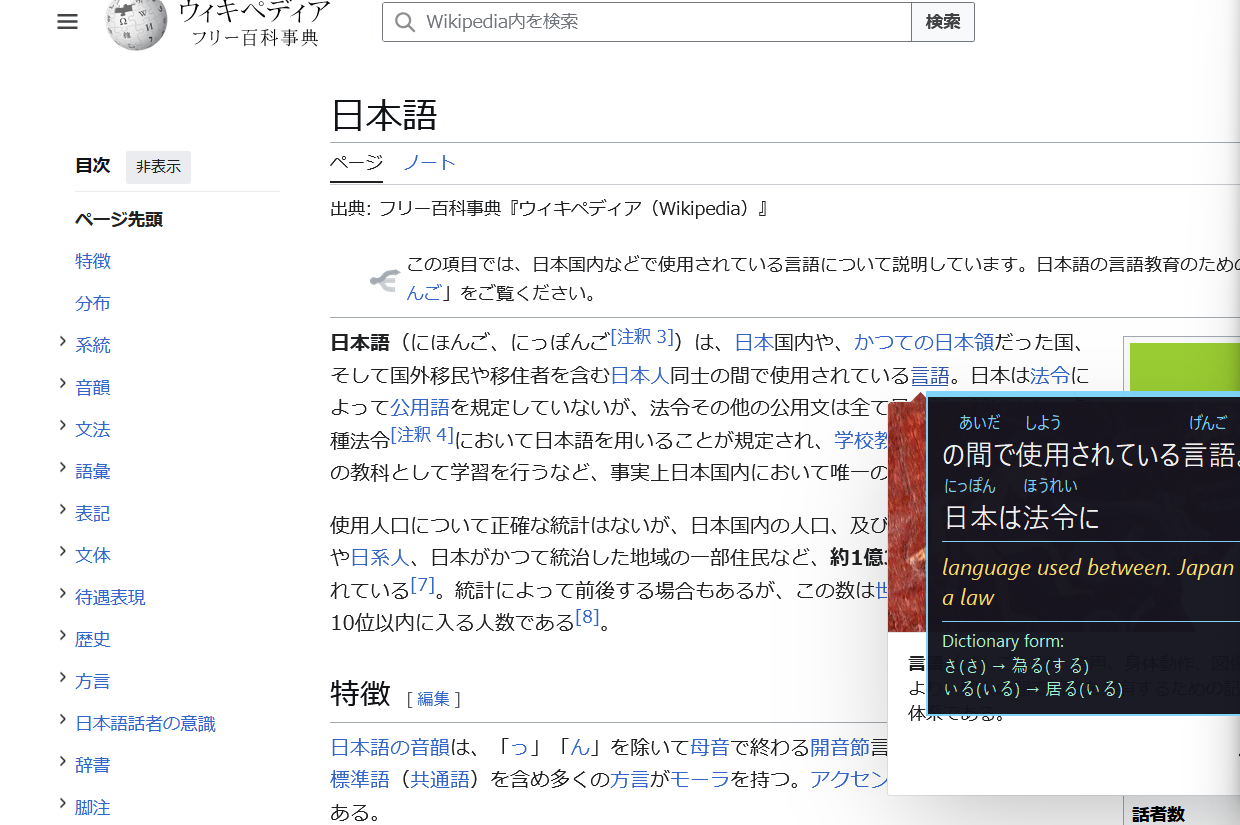
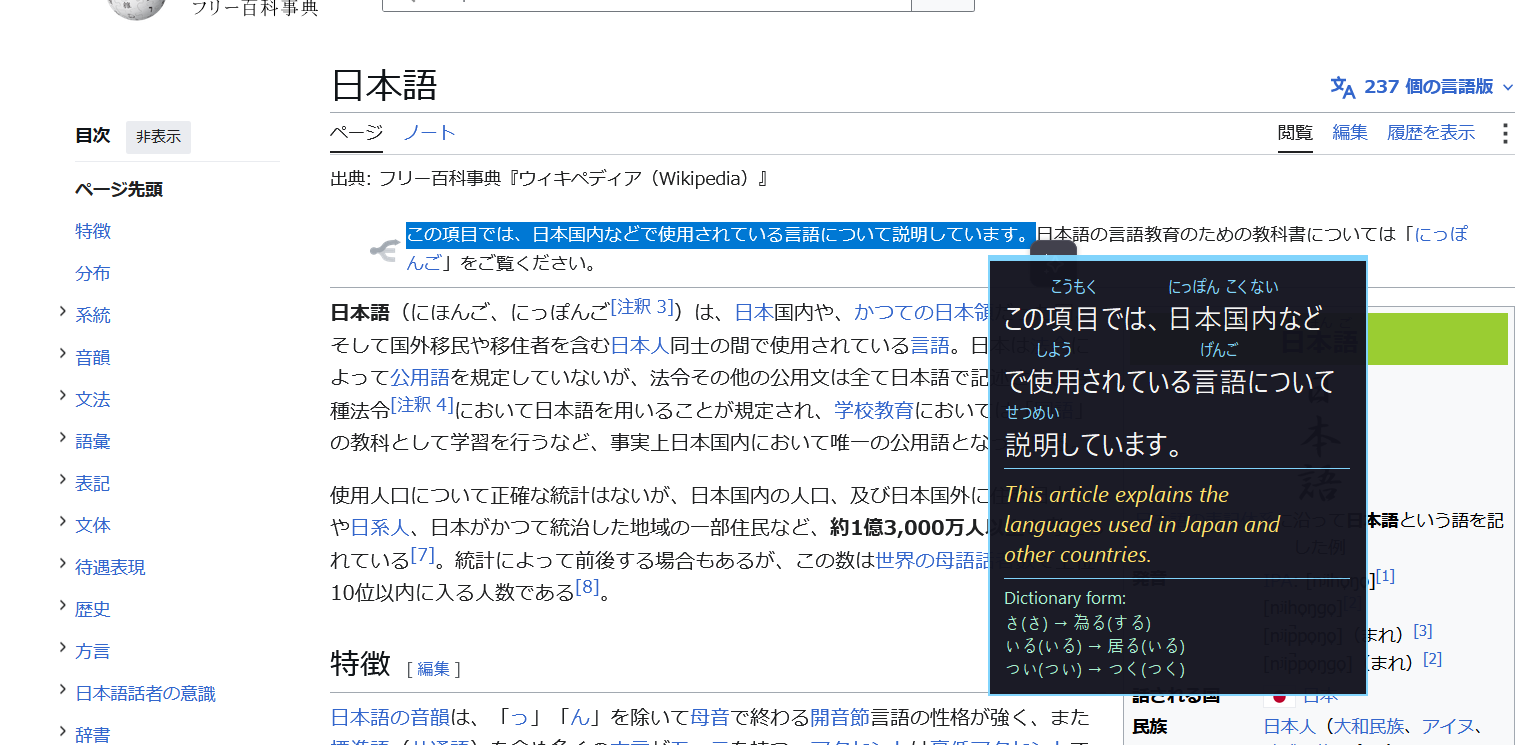
Improve README screenshot layout and fix the hover-popup screenshot
- Recapture hover-popup.png using a real text selection (the app's
  selection-priority path) instead of a hovered OCR spot -- the old
  one had a distracting article image bleeding in from the right and
  a cut-off popup. The new one shows a clean full-sentence selection,
  accurate furigana/translation, and the dictionary-form breakdown
  with nothing competing for attention.
- Reorganize the README's screenshots into a proper gallery: a
  full-width hero shot of the hover popup, then a 2x2 grid (Overview,
  Saved words, Study review, Settings) right up top instead of huge
  screenshots stacked one after another through the document.
  settings.png was captured earlier but never actually used anywhere
  in the README -- it's now part of the grid.
- Drop the now-redundant standalone study-review.png/saved-words.png
  placements further down the page.

diff --git a/README.md b/README.md
@@ -10,9 +10,19 @@ It combines cursor-anchored OCR, local JMdict word definitions, phrase translati
 furigana, dictionary-form breakdowns, pin/save hotkeys, SM-2 spaced repetition, and a
 light-mode desktop dashboard — no cloud account, API key, or subscription required.
 
-![Dashboard](docs/dashboard.png)
-
-![Pinned hover popup](docs/hover-popup.png)
+<p align="center">
+  <img src="docs/hover-popup.png" alt="Hover popup with furigana, translation, and dictionary form" width="100%">
+</p>
+<table>
+  <tr>
+    <td width="50%"><img src="docs/dashboard.png" alt="Overview dashboard"></td>
+    <td width="50%"><img src="docs/saved-words.png" alt="Saved words library"></td>
+  </tr>
+  <tr>
+    <td width="50%"><img src="docs/study-review.png" alt="Spaced-repetition study review"></td>
+    <td width="50%"><img src="docs/settings.png" alt="Settings page"></td>
+  </tr>
+</table>
 
 **Status:** actively developed, expect rough edges. Running from source
 (`python src/dashboard_app.py`) leaves a console window open in the background, since
@@ -207,8 +217,6 @@ which prevents accidental saves from fleeting hover results.
 
 ## Spaced-repetition study
 
-![Focused review mode](docs/study-review.png)
-
 Open **Saved Words** and choose **Review due cards**. New cards are due immediately;
 after revealing the answer, grade your recall with **Again**, **Hard**, **Good**, or
 **Easy** (keyboard shortcuts 1–4). The SM-2 scheduler stores each card's interval,
@@ -221,11 +229,9 @@ six-day review interval, while other saved cards enter the due queue immediately
 The Saved Words page shows each card's stage and next review, and lets you reset an
 individual schedule without deleting the word.
 
-The Saved Words page supports instant Japanese/English search and quick **All words** / 
+The Saved Words page supports instant Japanese/English search and quick **All words** /
 **Due now** filtering. Selecting an item opens a fixed detail panel with its meaning,
 dictionary form, learning stage, next review, interval, ease, reviews, and lapses.
-
-![Saved word library](docs/saved-words.png)
 
 ## Data and privacy
 